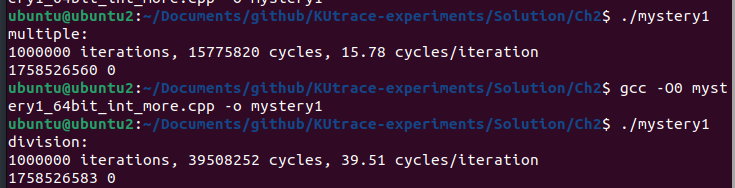
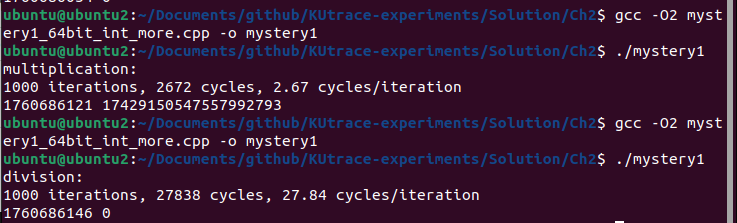
redo Ch2, need use -O2

diff --git a/Solution/Ch2/mystery1_64bit_int_more.cpp b/Solution/Ch2/mystery1_64bit_int_more.cpp
@@ -3,21 +3,28 @@
 #include <time.h>		// time()
 #include "../../timecounters.h"
 
-static const int kIterations = 1000000;
+static const int kIterations = 1000;
 
 int main (int argc, const char** argv) { 
-  uint64_t product = 0;
-  uint64_t quotient = 0;
+  uint64_t product = 1;
+  uint64_t quotient = 100000000;
 
   time_t t = time(NULL);	// A number that the compiler does not know
   uint64_t incr = t & 255;		// Unknown increment 0..255, now 64-bit
 
   int64_t startcy = GetCycles();
-  for (int i = 0; i < kIterations; ++i) {
+  for (int i = 1; i < kIterations; ++i) {
+    // product *= incr;
     quotient /= incr;
   }
   int64_t elapsed = GetCycles() - startcy;
   double felapsed = elapsed;
+
+  // fprintf(stdout, "multiplication: \n");
+  // fprintf(stdout, "%d iterations, %lu cycles, %4.2f cycles/iteration\n", 
+  //         kIterations, elapsed, felapsed / kIterations);
+  
+  // fprintf(stdout, "%lu %lu\n", t, product);
 
   fprintf(stdout, "division: \n");
   fprintf(stdout, "%d iterations, %lu cycles, %4.2f cycles/iteration\n", 
@@ -52,7 +59,7 @@ int main (int argc, const char** argv) {
 
 //   // multiple
 //   int64_t startcy_mul = GetCycles();
-//   for (int i = 0; i < kIterations; ++i) {
+//   for (int i = 1; i < kIterations; ++i) {
 //     product *= incr;
 //   }
 //   int64_t elapsed_mul = GetCycles() - startcy_mul;
